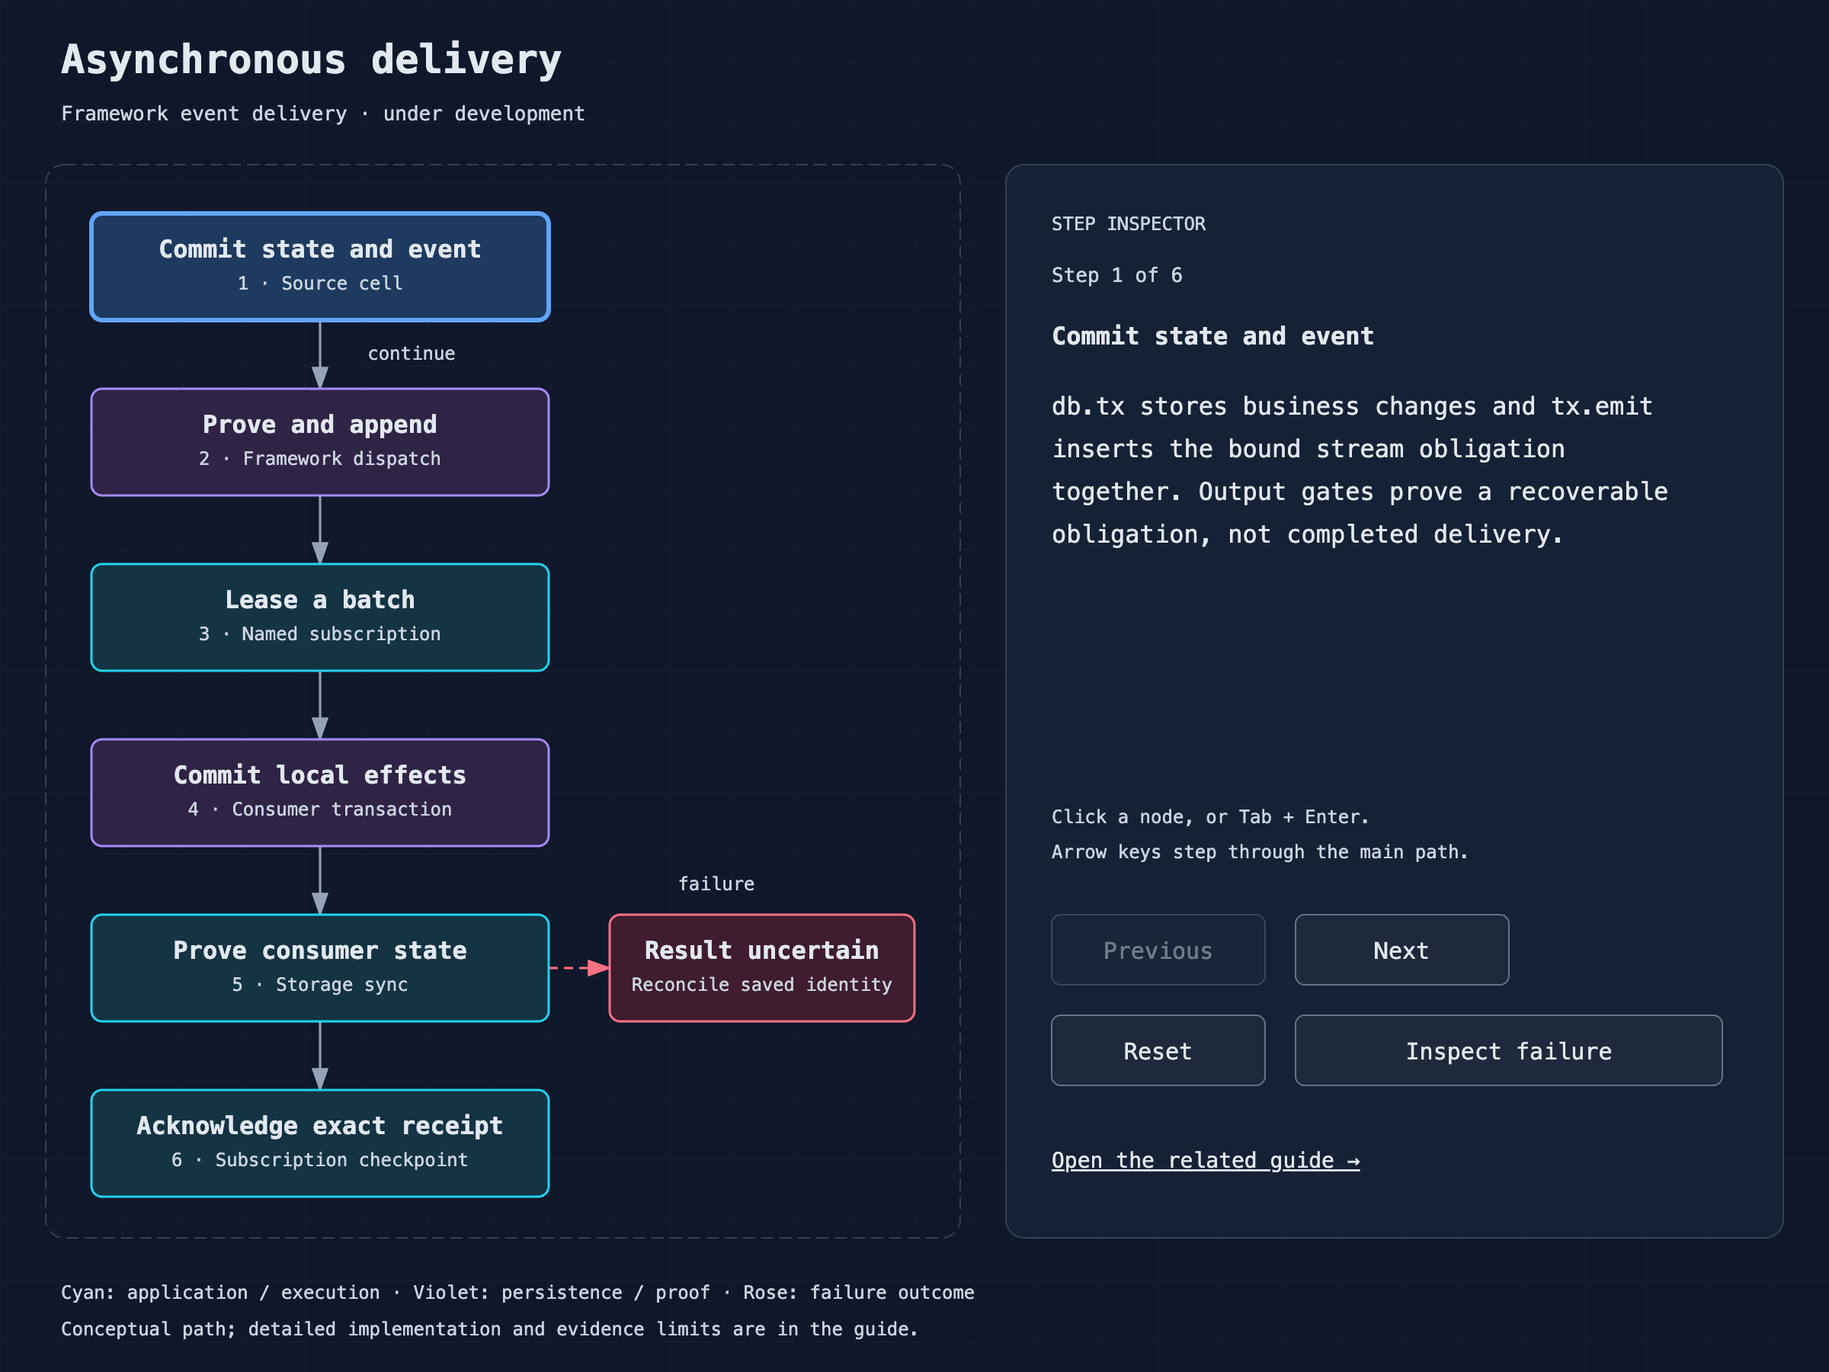
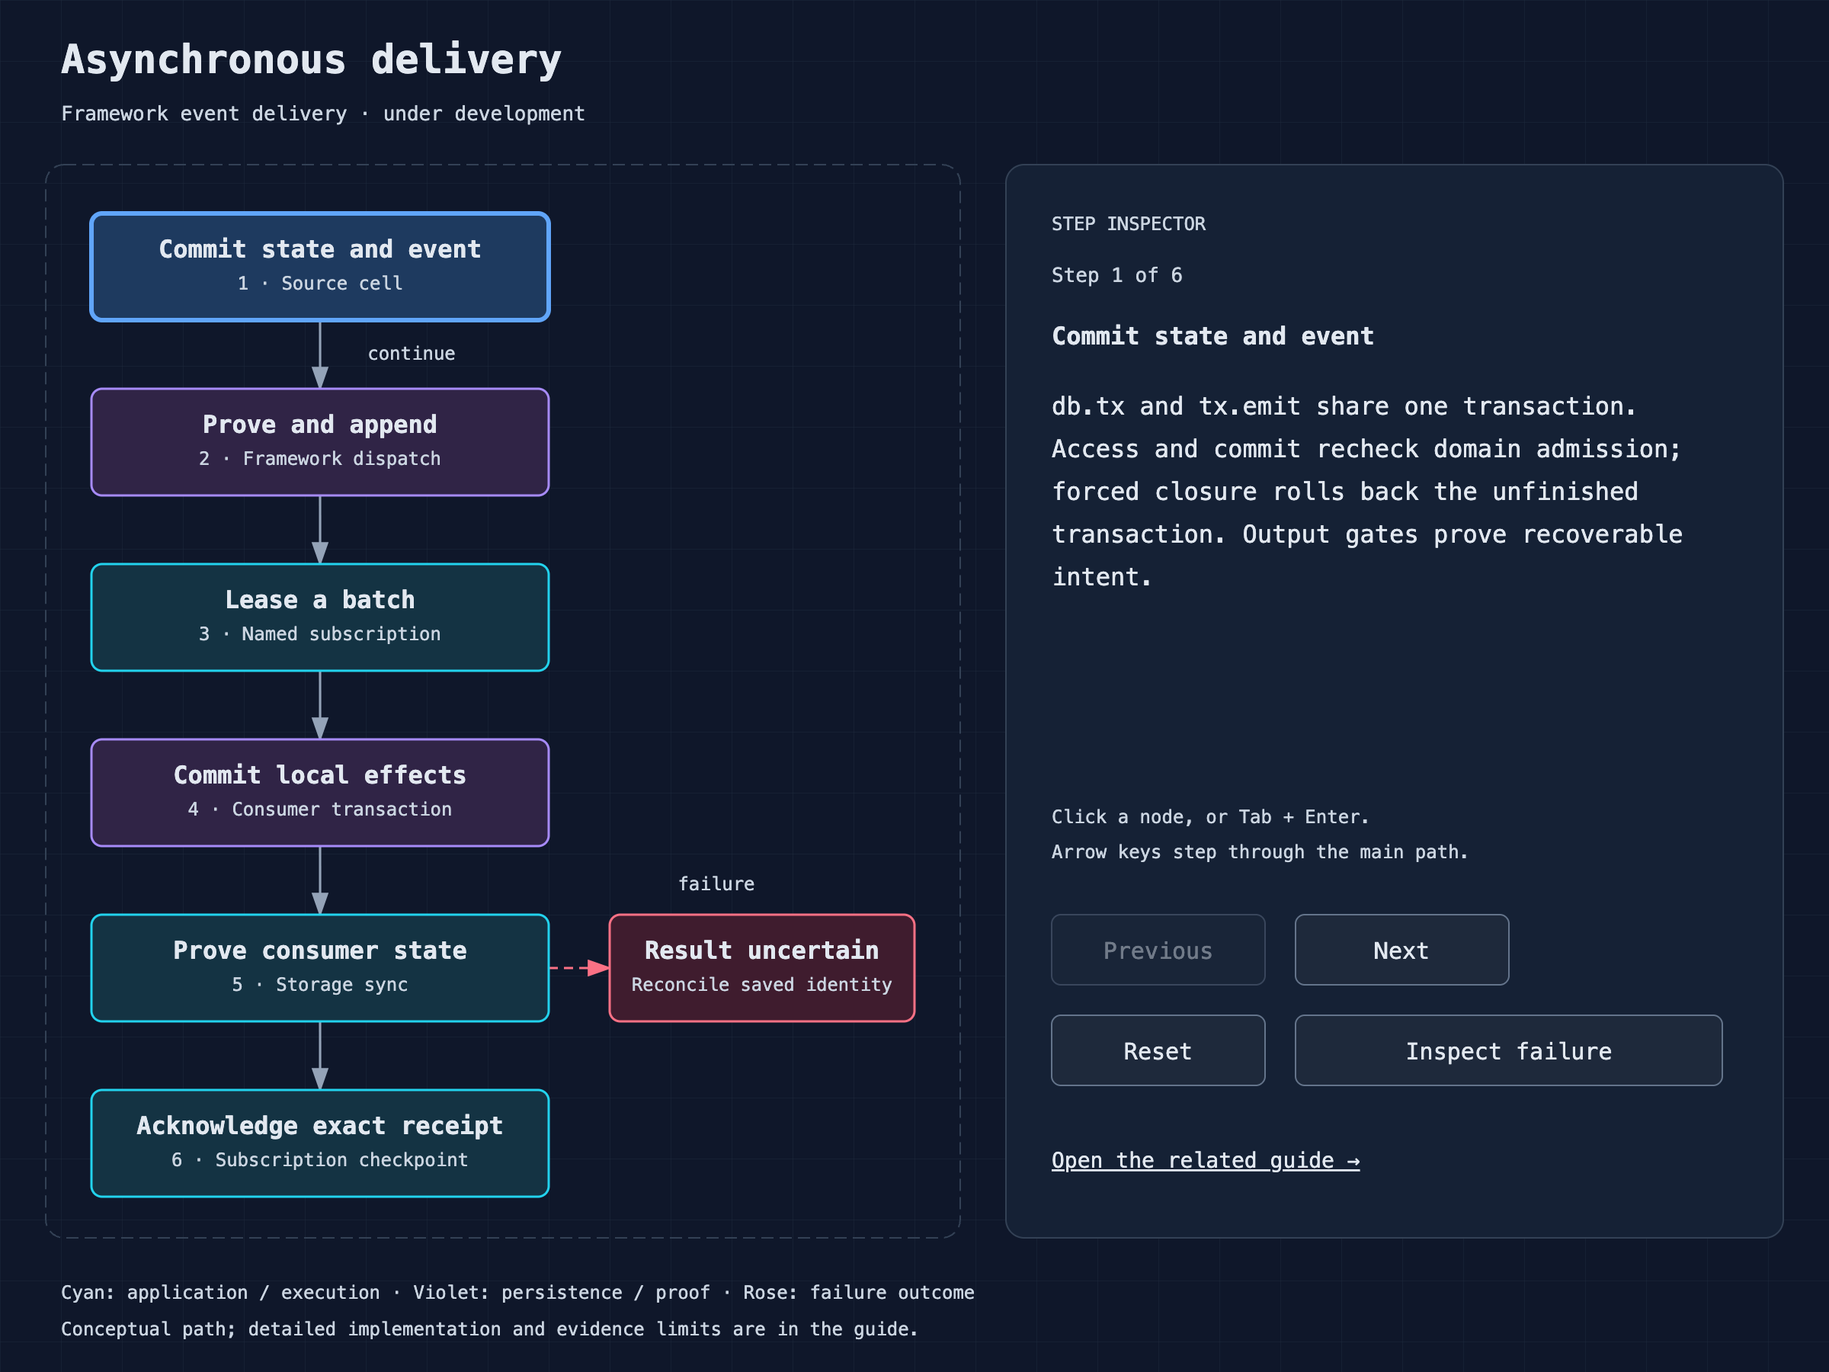
fix(storage): fence retained handles within turns
Retained handles could write through a foreign execution domain or commit
business state and outbox rows after closure inside a synchronous poll.
Recheck domain identity and admission on ordinary access and commit while
preserving original-connection rollback cleanup after forced closure.

Changed region(s): [[0.5625, 0.28, 0.9062, 0.4356]]

diff --git a/crates/cellar/runtime/workers/native/storage_authority_tests.rs b/crates/cellar/runtime/workers/native/storage_authority_tests.rs
@@ -1,0 +1,139 @@
+//! Admission can close while synchronous application code is still executing.
+
+use super::*;
+use crate::application::event_stream::{Binding, Event, Resource};
+use crate::application::storage::SqlValue;
+use serde::Serialize;
+
+const SCOPE: &str = "Account:storage-authority";
+
+#[derive(Serialize)]
+struct Changed(u64);
+
+impl Event for Changed {
+    const FAMILY: &'static str = "account-changed";
+    const VERSION: u32 = 1;
+
+    fn key(&self) -> &str {
+        "account"
+    }
+}
+
+fn configuration() -> Arc<WorkerConfig> {
+    let mut configuration = config(Arc::new(Signals::default()));
+    Arc::get_mut(&mut configuration).unwrap().stream_bindings = vec![Binding {
+        environment: "EVENTS".into(),
+        resource: Resource {
+            tenant: "test".into(),
+            application: "native-direct".into(),
+            id: "00000000000000000000000000000001".into(),
+            name: "accounts".into(),
+            family: Changed::FAMILY.into(),
+        },
+        principal: "native-direct".into(),
+        grant: "publish".into(),
+        publish: true,
+        read: false,
+        subscriptions: Vec::new(),
+        administer: false,
+    }
+    .into()];
+    configuration
+}
+
+fn own(worker: &mut NativeWorker, path: &std::path::Path) -> Result<()> {
+    worker.own_cell(
+        SCOPE,
+        Some(CellStorage {
+            path: path.to_str().unwrap(),
+            epoch: 1,
+            replicated_wake: false,
+            vfs: None,
+        }),
+    )?;
+    Ok(())
+}
+
+#[tokio::test]
+async fn retained_storage_refuses_wrong_and_closed_domains_inside_an_entered_turn() -> Result<()> {
+    let first = asyncrt::ExecutionDomain::new(tokio::runtime::Handle::current());
+    let second = asyncrt::ExecutionDomain::new(tokio::runtime::Handle::current());
+    let result = first
+        .run(async {
+            let directory = tempfile::tempdir()?;
+            let mut worker = NativeWorker::new(configuration())?;
+            own(&mut worker, &directory.path().join("cell.sqlite"))?;
+            let _cells = worker.cells.install();
+            let context = worker.context(Some(SCOPE), None, None, false)?;
+            let _turn = crate::host_io::CurrentGuard::enter(context.io.clone());
+            let db = context.storage()?;
+            db.put_json("business", &serde_json::json!(1))?;
+            let mut cursor = db.sql_cursor("SELECT 1 UNION ALL SELECT 2", &[])?;
+            second
+                .run(async {
+                    let failure = db.put_json("business", &serde_json::json!(2)).unwrap_err();
+                    assert!(failure.to_string().contains("another execution domain"));
+                })
+                .await?;
+            assert_eq!(db.get_json("business")?, Some(serde_json::json!(1)));
+            first.close();
+            assert!(db.put_json("business", &serde_json::json!(3)).is_err());
+            assert!(db.sql("CREATE TABLE forbidden(value)", &[]).is_err());
+            assert!(db.get_json("business").is_err());
+            assert!(cursor.next_raw().is_err());
+            assert!(db.tx(|_| Ok(())).is_err());
+            Ok::<_, anyhow::Error>(())
+        })
+        .await;
+    first.shutdown().await;
+    second.shutdown().await;
+    result?
+}
+
+#[tokio::test]
+async fn closing_domain_before_commit_rolls_back_business_and_outbox_together() -> Result<()> {
+    let domain = asyncrt::ExecutionDomain::new(tokio::runtime::Handle::current());
+    let result = domain
+        .run(async {
+            let directory = tempfile::tempdir()?;
+            let mut worker = NativeWorker::new(configuration())?;
+            own(&mut worker, &directory.path().join("cell.sqlite"))?;
+            let _cells = worker.cells.install();
+            let context = worker.context(Some(SCOPE), None, None, false)?;
+            let _turn = crate::host_io::CurrentGuard::enter(context.io.clone());
+            let db = context.storage()?;
+            let events = context.stream::<Changed>("EVENTS")?;
+            db.tx(|tx| {
+                tx.put_json("business", &serde_json::json!(1))?;
+                tx.emit(&events, Changed(1))
+            })?;
+            let result = db.tx(|tx| {
+                tx.put_json("business", &serde_json::json!(2))?;
+                tx.emit(&events, Changed(2))?;
+                domain.close();
+                Ok(())
+            });
+            assert!(result.is_err(), "closed execution domain committed a transaction");
+            // Framework inspection after refusal must still work, including
+            // rollback cleanup on the original connection in the closed domain.
+            let state = storage::system_sql(
+                SCOPE,
+                "SELECT CAST(v AS TEXT) AS value FROM __sys_cell_kv WHERE scope=?1 AND k='business'",
+                &[SCOPE.into()],
+            )?;
+            assert_eq!(state[0]["value"], SqlValue::Text("1".into()));
+            let records = storage::system_sql(SCOPE, "SELECT COUNT(*) AS n FROM __sys_outbox", &[])?;
+            assert_eq!(records[0]["n"], SqlValue::Integer(1));
+            let lanes = storage::system_sql(
+                SCOPE,
+                "SELECT next_sequence,settled_through FROM __sys_outbox_lanes",
+                &[],
+            )?;
+            assert_eq!(lanes[0]["next_sequence"], SqlValue::Integer(2));
+            assert_eq!(lanes[0]["settled_through"], SqlValue::Integer(0));
+            Ok::<_, anyhow::Error>(())
+        })
+        .await;
+    domain.shutdown().await;
+    result?
+}

diff --git a/tools/docs/build.py b/tools/docs/build.py
@@ -80,7 +80,7 @@ FLOWS = [
          fail_at=4, failure=("Release gate fails", "Stop promotion", "Halt rollout and preserve the candidate evidence. Roll back only when data, workflow and peer compatibility are proven; otherwise contain and correct forward.")),
     dict(id="async", title="Asynchronous delivery", guide="26-event-delivery.md", kind="Framework event delivery · under development",
          steps=[
-             ("Commit state and event", "Source cell", "db.tx stores business changes and tx.emit inserts the bound stream obligation together. Output gates prove a recoverable obligation, not completed delivery."),
+             ("Commit state and event", "Source cell", "db.tx and tx.emit share one transaction. Access and commit recheck domain admission; forced closure rolls back the unfinished transaction. Output gates prove recoverable intent."),
              ("Prove and append", "Framework dispatch", "Durable wakes resume delivery. The stream appends a contiguous source prefix and retains deduplication watermarks; proven acceptance permits source cleanup."),
              ("Lease a batch", "Named subscription", "next returns bounded records and an exact receipt without advancing the checkpoint. Caller-owned invocations or supervision drive the consumer."),
              ("Commit local effects", "Consumer transaction", "tx.inbox.accept and business effects commit together. Retained receipts suppress repeated local effects; external receivers still need idempotency."),

diff --git a/crates/cellar/application/storage.rs b/crates/cellar/application/storage.rs
@@ -271,6 +271,10 @@ impl Storage {
         let io = crate::host_io::installed_context()
             .ok_or_else(|| anyhow!("native storage is outside an executing turn"))?;
         anyhow::ensure!(
+            Arc::ptr_eq(io.host_services(), &crate::asyncrt::services()),
+            "native storage belongs to another execution domain"
+        );
+        anyhow::ensure!(
             io.native_activation
                 .as_ref()
                 .is_some_and(|activation| Arc::ptr_eq(activation, &self.0))
@@ -293,6 +297,13 @@ impl Storage {
 
     fn activation_scope(&self) -> Result<&str> {
         let scope = self.installed_activation_scope()?;
+        // A synchronous application poll can outlive forced host closure.
+        // Recheck ordinary operations and commit here; rollback/retirement
+        // deliberately retain installed_activation_scope on the original DB.
+        anyhow::ensure!(
+            crate::asyncrt::services().accepts_work(),
+            "native storage execution domain is closed"
+        );
         if let Some(failure) = self.0.resources.failure.lock().unwrap().as_ref() {
             anyhow::bail!("native cell was reset: {failure}");
         }

diff --git a/crates/cellar/runtime/workers/native/tests.rs b/crates/cellar/runtime/workers/native/tests.rs
@@ -9,6 +9,9 @@ use std::task::{Wake, Waker};
 use std::time::Duration;
 use tokio::sync::{oneshot, Notify};
 
+#[path = "storage_authority_tests.rs"]
+mod storage_authority_tests;
+
 struct ReceiverWake {
     sender: Arc<WakeTurn>,
     calls: AtomicUsize,

diff --git a/plans/outbox-implementation-status.md b/plans/outbox-implementation-status.md
@@ -52,7 +52,57 @@ participants. Later sections retain historical verification notes; their old
 version numbers, migrations, legacy readers and fleet-upgrade tests describe
 removed implementations and are not current supported behavior.
 
-## Current follow-up: follower-only subscription fetch and ack recovery
+## Current follow-up: retained storage admission inside an executing turn
+
+The stale-owner audit found a concrete SDK admission gap. `Context::storage`
+checked domain admission when creating a handle, but retained `Storage` handles
+only checked activation/source identity. A callback already executing while its
+domain closes could continue synchronous access and commit an open transaction.
+An installed original I/O context also let a retained handle write while another
+execution domain was temporarily entered.
+
+Two focused native regressions fail before the fix: the wrong-domain write
+returns success, and domain closure after business/outbox writes still permits
+commit (0.02s). These are actual storage-boundary failures, not fixture decoding
+or bootstrap errors. Storage now independently compares the installed I/O
+context's services with the current domain. Ordinary access and commit additionally
+require open-domain admission. Cleanup retains original activation/connection
+identity without requiring open admission, so rollback can undo the unfinished
+transaction after closure. No new business authority is granted by cleanup.
+
+Both regressions pass after the fix (0.03s): retained KV/SQL/cursor access and new
+transactions refuse after closure; the unfinished transaction rolls back both
+business state and its second event, retaining the earlier event, producer next
+sequence and settlement watermark. Owned markers remain one, with no
+compatibility path or schema change.
+
+Broader validation passes all 229 library tests, 47 native Node tests (100.46s),
+seven artifact tests, three CLI tests and the native event-stream, outbox, SQL,
+storage and transaction suites. Workspace/all-target/all-feature check and
+Clippy with warnings denied pass, as do formatting (507 Rust files), 111 Python
+guards, docs (36 documents/6 flows/386 references), the dependency audit
+(403 packages/no JavaScript engine) and whitespace checks. The SDK guides, API
+map, example and generated asynchronous flow/2x preview describe the admission
+boundary; the preview was rendered and inspected.
+
+A rebuilt executable, archived with SHA-256
[1 lines of base64/hex data omitted]
+passes eleven process runs: ordinary stream smoke, resumed-owner fencing and
+follower-only append/ack/live-fetch/expired-fetch on both SQLite and private
+RustFS S3. All ten saved fault ledgers pass offline audit. The checks use
+Rust 1.97.0 on aarch64 macOS; CI's configured toolchain is not claimed as locally
+exercised. These passing reruns do not establish the causes of earlier intermittent
+startup failures or close their separate gates.
+
+This closes the reproduced local SDK gap, not the full live stale-owner process
+matrix. An SQLite statement already admitted before concurrent closure and
+output/durability gates retain their existing semantics; this change does not
+claim preemption or rollback of a previously committed result. Qualifying an old
+process still executing across takeover remains the highest correctness work,
+followed by destination follower-disk and other commit/proof/lifecycle/capacity
+cuts. The full goal remains incomplete.
+
+## 2026-10-15 follower-only subscription fetch and ack recovery
 
 `ack_faults.py --follower-only` and `fetch_faults.py --follower-only` share the
 destination proof gate from the append case, with operation-specific held replies,

diff --git a/docs/22-api-reference.md b/docs/22-api-reference.md
@@ -11,7 +11,7 @@ identify their implementation at the documented source baseline.
 | Define handlers | `Application`, `Cell`, `Registry`, `Context`, `Invocation`, `Output`, `HandlerFuture` | [contracts](../crates/cellar/application/mod.rs) |
 | Identify/call cells | `cells::Namespace`, `Id`, `Stub`; `Context::namespace`, `exported_namespace`; stub `fetch`, `rpc`, `call`, signal variants | [cells](../crates/cellar/application/cells.rs) |
 | Current cell state | `Storage`, `ListOptions`; JSON/clone get/put/list, SQL, cursors, `sync`, alarms | [storage](../crates/cellar/application/storage.rs) |
-| Atomic cell operations | `tx`, `transaction`, `transaction_sync`, `rollback` | [transactions](../crates/cellar/application/storage/transaction.rs) |
+| Atomic cell operations | `tx`, `transaction`, `transaction_sync`, `rollback`; activation/domain admission at access and commit | [transactions](../crates/cellar/application/storage/transaction.rs) |
 | Outbox publication | `Context::stream::<E>`, `event_stream::Event`, `Stream<E>`, `tx.emit`; `Storage::outbox` | [event delivery guide](26-event-delivery.md), [handles](../crates/cellar/application/event_stream/mod.rs) |
 | Durable history | `event_stream::Stream::read`, `ReadOptions`, `Cursor`, `Page`, `Record` | [stream client](../crates/cellar/application/event_stream/client.rs) |
 | Resumable consumption | `Stream::subscription`, `Subscription::next`/`next_with_id`, `BatchOptions`, `Batch::ack`/`retry`/`extend_until`, `Receipt` | [subscriptions](../crates/cellar/application/event_stream/subscription.rs) |

diff --git a/AGENTS.md b/AGENTS.md
@@ -57,6 +57,13 @@ behavior and unqualified correctness boundaries at the start of each turn.
 Prioritize loss, duplicate effects, fencing and recovery failures before API
 polish or additional metrics. State the selected risk and its acceptance gate;
 report what changed, exact verification and the highest remaining blocker.
+Retained Storage handles must check the installed I/O context's domain as well
+as activation identity. Ordinary access and commit recheck open-domain admission
+inside an already-entered poll; forced closure cannot rely only on the next turn
+to refuse new work. Preserve original-connection rollback/retirement cleanup
+after closure. storage_authority_tests.rs covers wrong-domain access and closure
+between business/outbox writes and commit. These local SDK regressions do not
+qualify an old process still executing across full fleet takeover.
 Node-log recovery cannot seal possible fleet acknowledgments without a complete
 witness, even after every member is long expired/unreachable or the ensemble is
 empty. Durable loss diagnostics do not authorize replacement admission. Retained

diff --git a/docs/26-event-delivery.md b/docs/26-event-delivery.md
@@ -89,6 +89,14 @@ successful response passes the source output proof gates. The stream or consumer
 may still be unavailable. An operation that updates a separate SQL binding must
 emit inside that database's owning cell to share the atomic boundary.
 
+Retained storage handles stay bound to their execution domain and activation.
+Storage access and transaction commit recheck admission, including when forced
+domain closure happens inside an already-entered synchronous callback. A refused
+commit rolls back business changes and emitted events together. Rollback cleanup
+can still use the original connection after closure; it grants no new business
+or delivery authority. Local writes already executed before closure remain
+subject to the ordinary durability and discovery gates.
+
 Application commands still need stable command IDs and digest-checked receipts.
 A retried business request can otherwise emit twice. Stream append deduplication
 protects retries of the same stored obligation, not repeated business commands.

diff --git a/plans/002-outbox-streams-subscriptions.md b/plans/002-outbox-streams-subscriptions.md
@@ -228,6 +228,10 @@ Required invariants:
   is reported explicitly rather than silently skipped.
 - Old activation completions cannot mutate new activation state. Already-sent
   packets may arrive late and are handled by destination deduplication.
+- Retained storage handles require the original execution domain as well as
+  activation identity. Ordinary access and transaction commit must recheck
+  admission if forced closure occurs inside an already-entered callback.
+  Rollback cleanup retains only the original connection authority after closure.
 - Missing durability evidence cannot be converted into an empty restored state.
   A log with possible fleet acknowledgments needs a complete follower witness;
   expiry or prolonged unreachability does not authorize abandoning its writes.

diff --git a/docs/06-storage-transactions.md b/docs/06-storage-transactions.md
@@ -6,6 +6,11 @@ lazy cursors, SQL, transactions, alarms and an explicit `sync` durability wait.
 The SQL binding is a separate bound database surface; do not confuse it with
 direct access to the current cell's SQLite state.
 
+Retained handles also require their original execution domain. Ordinary storage
+access and commit recheck admission even within an already-entered callback.
+Forced domain closure refuses new access and rolls back an unfinished transaction
+at commit; cleanup may still roll back through the original connection.
+
 ![Local atomicity and distributed coordination](diagrams/cell-boundaries.svg)
 
 For the complete producer/consumer contract and outcome handling, see

diff --git a/examples/durable-streams/README.md b/examples/durable-streams/README.md
@@ -60,6 +60,10 @@ inside the transaction. Framework dispatch proves the source obligation and
 appends it asynchronously. A successful business response establishes durable
 state and a recoverable obligation, not completed delivery.
 
+Storage access and commit retain the original activation/domain authority.
+Forced domain closure inside the callback refuses commit and rolls back state
+and the emitted obligation together; retaining a storage handle cannot bypass it.
+
 The `Projection` cell calls `subscription.next` with explicit batch/byte budgets
 and zero wait. For every record, one transaction records
 `tx.inbox("order-projection-v1").accept(record)` and increments local totals.
